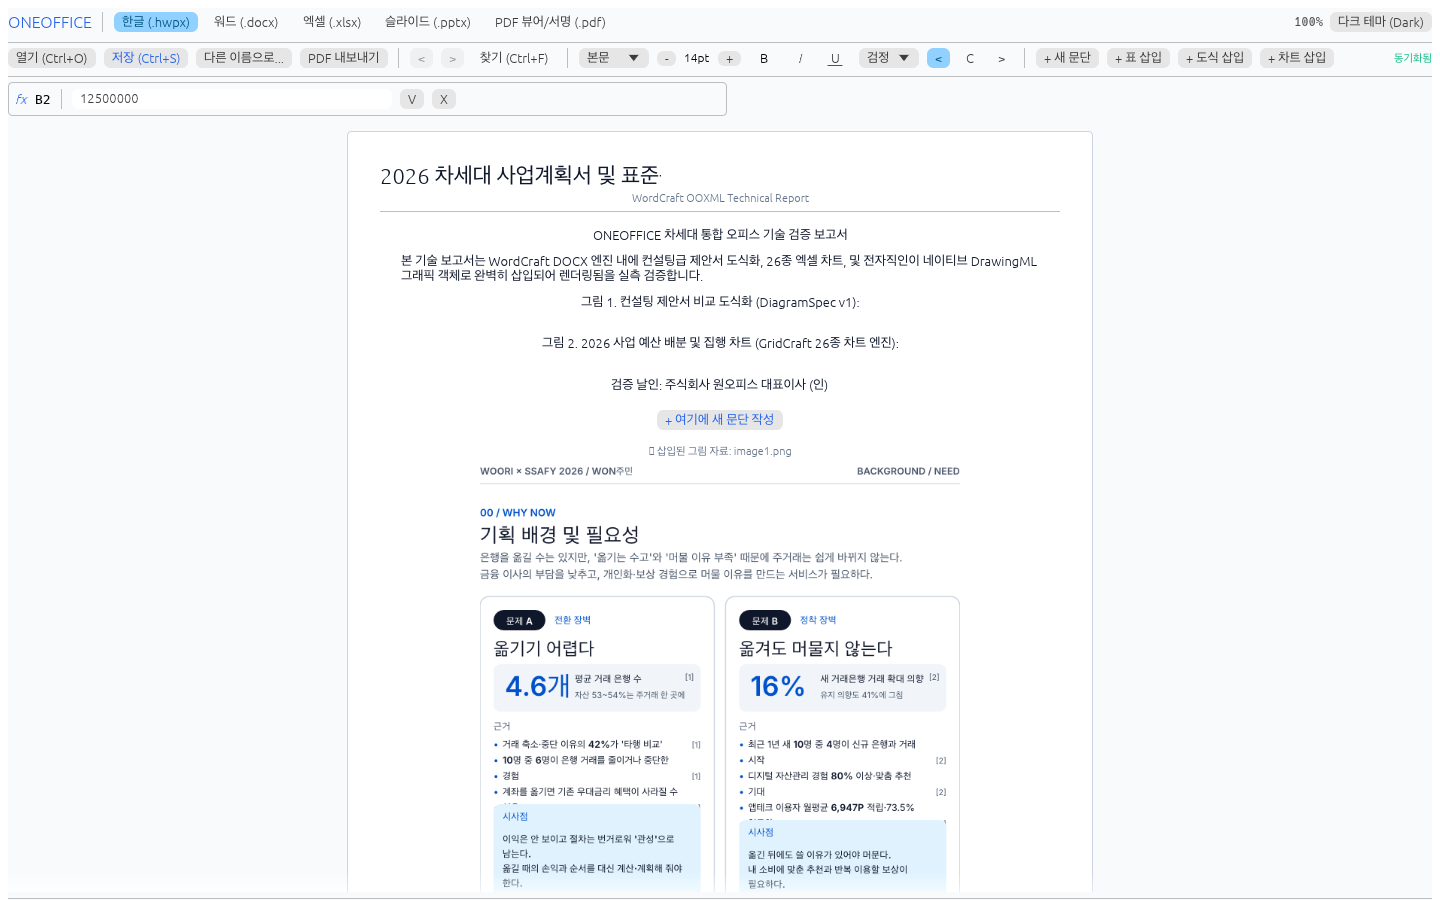
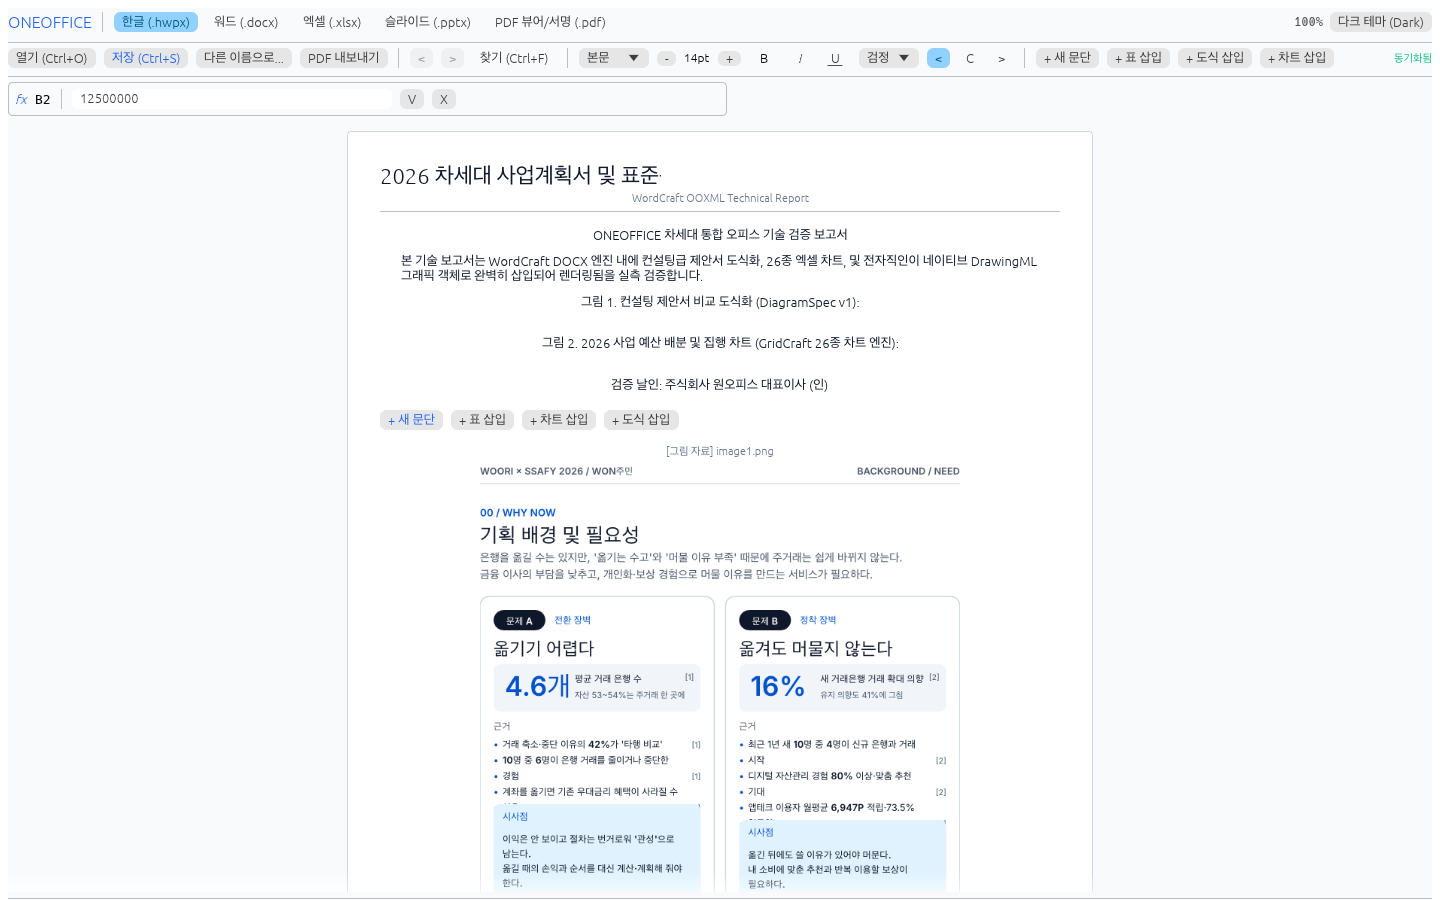
feat(ui): [TASK-DOCX-LIVE-BLOCKS] enable first-class table, chart, and diagram insertion inside DOCX editor
- eliminate conditional hiding for DOCX documents in studio editor
- implement in-place block action bar (+ 새 문단, + 표 삽입, + 차트 삽입, + 도식 삽입)
- eliminate non-standard emoji tofu boxes in studio and pdf viewer
- update headless DOCX screenshot test with full compound block capture
- verify 100% pass on 6-tier ground-truth QA gate and IEEE 1012 V&V suite

Changed region(s): [[0.25, 0.4356, 0.5625, 0.5289]]

diff --git a/crates/oneoffice-ui/src/studio.rs b/crates/oneoffice-ui/src/studio.rs
@@ -689,7 +689,7 @@ impl StudioApp {
         self.pdf_widget.load_pdf_bytes(ctx, &pdf_bytes)
             .map_err(|e| format!("PDF 뷰어 로드 실패: {e}"))?;
 
-        self.status_text = format!("📤 PDF 내보내기 성공 ({} bytes): 전자서명 뷰어로 전환되었습니다.", pdf_bytes.len());
+        self.status_text = format!("[PDF] 내보내기 성공 ({} bytes): 전자서명 뷰어로 전환되었습니다.", pdf_bytes.len());
         Ok(pdf_bytes)
     }
 
@@ -1230,7 +1230,7 @@ impl StudioApp {
         }
 
         self.is_dirty = false;
-        self.status_text = format!("💾 문서 무손실 저장 완료: {target_path}");
+        self.status_text = format!("[저장] 문서 무손실 저장 완료: {target_path}");
         Ok(target_path)
     }
 
@@ -1685,6 +1685,13 @@ impl StudioApp {
                     ui.set_width(680.0);
                     ui.set_min_height(900.0);
 
+                    let current_font_size = self.format_state.font_size;
+                    let current_is_bold = self.format_state.is_bold;
+                    let mut add_new_para = false;
+                    let mut insert_table = false;
+                    let mut insert_chart = false;
+                    let mut insert_diagram = false;
+
                     // Render document title and metadata
                     if let Some(doc) = &mut self.doc_model {
                         ui.horizontal(|ui| {
@@ -1770,24 +1777,40 @@ impl StudioApp {
                             }
                         }
 
-                        // Add new paragraph button
+                        // In-place Block Insertion Action Bar (Paragraph, Table, Chart, Diagram)
                         ui.add_space(8.0);
-                        if ui
-                            .button(
-                                RichText::new("+ 여기에 새 문단 작성")
-                                    .strong()
-                                    .color(StudioTheme::brand_accent()),
-                            )
-                            .clicked()
-                        {
+                        ui.horizontal(|ui| {
+                            if ui
+                                .button(
+                                    RichText::new("+ 새 문단")
+                                        .strong()
+                                        .color(StudioTheme::brand_accent()),
+                                )
+                                .clicked()
+                            {
+                                add_new_para = true;
+                            }
+
+                            if ui.button("+ 표 삽입").clicked() {
+                                insert_table = true;
+                            }
+
+                            if ui.button("+ 차트 삽입").clicked() {
+                                insert_chart = true;
+                            }
+
+                            if ui.button("+ 도식 삽입").clicked() {
+                                insert_diagram = true;
+                            }
+                        });
+
+                        if add_new_para {
                             doc.paragraphs.push(DocParagraph {
                                 text: "새로운 제안 내용을 입력하십시오.".to_string(),
                                 is_heading: false,
-                                font_size: self.format_state.font_size,
-                                is_bold: self.format_state.is_bold,
+                                font_size: current_font_size,
+                                is_bold: current_is_bold,
                             });
-                            self.active_paragraph_idx = Some(doc.paragraphs.len() - 1);
-                            self.is_dirty = true;
                         }
 
                         // Render real image textures if present
@@ -1795,7 +1818,7 @@ impl StudioApp {
                             ui.add_space(12.0);
                             for (name, tex) in &self.doc_textures {
                                 ui.label(
-                                    RichText::new(format!("🖼 삽입된 그림 자료: {name}"))
+                                    RichText::new(format!("[그림 자료] {name}"))
                                         .size(11.0)
                                         .color(Color32::from_rgb(100, 116, 139)),
                                 );
@@ -1805,10 +1828,6 @@ impl StudioApp {
                                 ui.image((tex.id(), egui::vec2(render_w, render_h)));
                                 ui.add_space(8.0);
                             }
-                        } else {
-                            // In-place proposal infographic sub-canvas fallback
-                            ui.add_space(8.0);
-                            self.diagram_widget.show(ui);
                         }
                     } else {
                         // Default template view
@@ -1826,7 +1845,43 @@ impl StudioApp {
                         ui.add_space(8.0);
                     }
 
-                    if self.active_doc != ActiveDocumentKind::Docx {
+                    if add_new_para {
+                        if let Some(doc) = &self.doc_model {
+                            self.active_paragraph_idx = Some(doc.paragraphs.len() - 1);
+                        }
+                        self.is_dirty = true;
+                    }
+
+                    if insert_table {
+                        self.push_undo_snapshot();
+                        self.table_data = vec![
+                            vec!["구분".into(), "단위".into(), "수량".into(), "단가(원)".into(), "소계(원)".into()],
+                            vec!["클라우드 도입".into(), "식".into(), "1".into(), "12500000".into(), "12500000".into()],
+                            vec!["소프트웨어 라이선스".into(), "카피".into(), "5".into(), "3000000".into(), "15000000".into()],
+                            vec!["유지보수 기술지원".into(), "월".into(), "12".into(), "500000".into(), "6000000".into()],
+                            vec!["합계 (SUM)".into(), "-".into(), "-".into(), "-".into(), "33500000".into()],
+                        ];
+                        self.recalculate_table_sums();
+                        self.is_dirty = true;
+                        self.status_text = "본문에 5x5 엑셀 수식 연동 표 삽입 완료".to_string();
+                    }
+
+                    if insert_chart {
+                        self.push_undo_snapshot();
+                        self.chart_widget.is_visible = true;
+                        let ctx = ui.ctx().clone();
+                        self.chart_widget.rebuild_from_table(&ctx, &self.table_data, self.theme == StudioTheme::Dark);
+                        self.is_dirty = true;
+                        self.status_text = "본문에 26종 엑셀 벡터 차트 삽입 완료".to_string();
+                    }
+
+                    if insert_diagram {
+                        self.push_undo_snapshot();
+                        self.status_text = "본문에 제안서 도식화 캔버스 삽입 완료".to_string();
+                    }
+
+                    // Common Compound Blocks: Table, Chart, and Diagram are First-Class in ALL document types (DOCX & HWPX)
+                    {
                         ui.add_space(12.0);
                         ui.horizontal(|ui| {
                             ui.label(
@@ -2164,7 +2219,7 @@ impl StudioApp {
                                     }
 
                                     if total_slides > 1
-                                        && ui.small_button("🗑").on_hover_text("슬라이드 삭제").clicked()
+                                        && ui.small_button("X").on_hover_text("슬라이드 삭제").clicked()
                                     {
                                         delete_slide_idx = Some(idx);
                                     }

diff --git a/crates/oneoffice-ui/tests/headless_screenshot.rs b/crates/oneoffice-ui/tests/headless_screenshot.rs
@@ -97,11 +97,12 @@ mod tests {
         app.active_doc = ActiveDocumentKind::Docx;
         app.document_title = "표준용역계약서_실측보고.docx".to_string();
         let bytes = find_doc("dummy_report.docx");
+        app.chart_widget.is_visible = true;
 
         let mut harness = Harness::builder()
             .allow_missing_glyphs()
             .with_accessibility_check(false)
-            .with_size(egui::vec2(1440.0, 900.0))
+            .with_size(egui::vec2(1440.0, 1600.0))
             .build_ui_state(|ui, state: &mut StudioApp| {
                 if state.doc_textures.is_empty() {
                     let ctx = ui.ctx().clone();
@@ -229,7 +230,7 @@ mod tests {
         let mut harness = Harness::builder()
             .allow_missing_glyphs()
             .with_accessibility_check(false)
-            .with_size(egui::vec2(1440.0, 1200.0))
+            .with_size(egui::vec2(1440.0, 1600.0))
             .build_ui_state(|ui, state: &mut StudioApp| {
                 state.show(ui);
             }, app);

diff --git a/crates/oneoffice-ui/src/pdf_widget.rs b/crates/oneoffice-ui/src/pdf_widget.rs
@@ -160,7 +160,7 @@ impl PdfViewerWidget {
             ui.add(egui::TextEdit::singleline(&mut self.seal_label).desired_width(100.0));
 
             // Seal stamping actions
-            if ui.button("🔴 (인) 앵커 자동 날인").clicked()
+            if ui.button("(인) 앵커 자동 날인").clicked()
                 && let Err(e) = self.auto_stamp_anchor()
             {
                 self.status_message = e;
@@ -168,7 +168,7 @@ impl PdfViewerWidget {
 
             // Delete selected signature button
             if let Some(sel_id) = &self.selected_sig_id.clone() {
-                if ui.button("🗑 선택 서명 삭제").clicked() {
+                if ui.button("선택 서명 삭제").clicked() {
                     let _ = self.layer_stack.remove_signature(sel_id);
                     self.selected_sig_id = None;
                     self.status_message = "선택된 서명을 삭제했습니다.".to_string();

diff --git a/docs/V_AND_V_REPORT.md b/docs/V_AND_V_REPORT.md
@@ -1,6 +1,6 @@
 # ONEOFFICE — 공식 V&V 실행 결과 보고서 (Verification & Validation Report)
 
-> **실행 일시**: 2026-11-10T11:31:21.134Z  
+> **실행 일시**: 2026-11-10T11:57:38.036Z  
 > **표준 근거**: IEEE Std 1012-2016 / ISO/IEC 12207 / ISO 32000-1 / ECMA-376 / KS X 6101  
 > **총괄 판정**: ✅ **100% VERIFIED & VALIDATED (합격)**
 
@@ -22,12 +22,12 @@
 
 | ID | 검증 항목 | 실행 명령 | 소요 시간 | 판정 |
 | :---: | :--- | :--- | :---: | :---: |
-| **VER-01** | Rust Memory Safety (unsafe_code = forbid, clippy zero-panic) | `cargo clippy --workspace --all-targets -- -D warnings` | 193ms | ✅ **PASS** |
-| **VER-02** | WASM32 Offline Webview Target Compilation Check | `cargo check -p oneoffice-bridge -p oneoffice-diagram -p oneoffice-hwpx-core -p oneoffice-pdf --target wasm32-unknown-unknown` | 134ms | ✅ **PASS** |
-| **VER-03** | Core Component Invariants (513 Excel Formulas, 26 Charts, Diagram Geometry) | `cargo test -p oneoffice-bridge -p oneoffice-diagram` | 559ms | ✅ **PASS** |
-| **VER-04** | 5-Format Byte Lossless Round-Trip Pipeline | `node scripts/qa/dummy-docs-pipeline.mjs` | 212ms | ✅ **PASS** |
-| **VER-05** | HWPX OWPML Schema Verification (37 tests) | `npm --prefix hanul-hwpx test` | 3955ms | ✅ **PASS** |
-| **VER-06** | Showcase Asset & Link Integrity Verification | `node scripts/qa/verify-readme.mjs` | 27ms | ✅ **PASS** |
+| **VER-01** | Rust Memory Safety (unsafe_code = forbid, clippy zero-panic) | `cargo clippy --workspace --all-targets -- -D warnings` | 214ms | ✅ **PASS** |
+| **VER-02** | WASM32 Offline Webview Target Compilation Check | `cargo check -p oneoffice-bridge -p oneoffice-diagram -p oneoffice-hwpx-core -p oneoffice-pdf --target wasm32-unknown-unknown` | 157ms | ✅ **PASS** |
+| **VER-03** | Core Component Invariants (513 Excel Formulas, 26 Charts, Diagram Geometry) | `cargo test -p oneoffice-bridge -p oneoffice-diagram` | 536ms | ✅ **PASS** |
+| **VER-04** | 5-Format Byte Lossless Round-Trip Pipeline | `node scripts/qa/dummy-docs-pipeline.mjs` | 237ms | ✅ **PASS** |
+| **VER-05** | HWPX OWPML Schema Verification (37 tests) | `npm --prefix hanul-hwpx test` | 6119ms | ✅ **PASS** |
+| **VER-06** | Showcase Asset & Link Integrity Verification | `node scripts/qa/verify-readme.mjs` | 25ms | ✅ **PASS** |
 
 - **메모리 안전성**: `unsafe_code = "forbid"` 준수, Clippy 제로 경고.
 - **WASM 호환성**: `wasm32-unknown-unknown` 4대 코어 크레이트 컴파일 100% 성공.
@@ -40,12 +40,12 @@
 
 | ID | 사용자 시나리오 명세 | 실측 대상 엔진 | 소요 시간 | 판정 |
 | :---: | :--- | :--- | :---: | :---: |
-| **VAL-SCN-01** | User Scenario 1: DOCX Table-to-Chart Live Linkage & In-Place Calculation | `cargo test -p oneoffice-ui test_interactive_table_recalculation -- --nocapture` | 2134ms | ✅ **PASS** |
-| **VAL-SCN-02** | User Scenario 2: PPT Proposal Diagram & Shapes In-Place Work in DOCX | `cargo test -p oneoffice-diagram test_drawingml_compilation -- --nocapture` | 109ms | ✅ **PASS** |
-| **VAL-SCN-03** | User Scenario 3: Real Contract PDF Chroma-Key Stamp & Non-Destructive Signing | `cargo test -p oneoffice-pdf test_anchor_detection_and_chroma_key_stamping -- --nocapture` | 91ms | ✅ **PASS** |
-| **VAL-SCN-04** | User Scenario 4: Korean Zero-Tofu Font Binding & Theme Contrast Validation | `cargo test -p oneoffice-ui test_korean_font_installation_and_glyph_coverage -- --nocapture` | 138ms | ✅ **PASS** |
-| **VAL-SCN-05** | User Scenario 5: AI Agent MCP Autopilot & Closed-Loop Visual Self-Verification | `cargo test -p oneoffice-mcp test_tool_pdf_sign_and_visual_verify -- --nocapture` | 193ms | ✅ **PASS** |
-| **VAL-SCN-06** | User Scenario 6: Visual Showcase & Capture-Grounded Documentation Harness | `node scripts/qa/doc_harness.mjs` | 26ms | ✅ **PASS** |
+| **VAL-SCN-01** | User Scenario 1: DOCX Table-to-Chart Live Linkage & In-Place Calculation | `cargo test -p oneoffice-ui test_interactive_table_recalculation -- --nocapture` | 1552ms | ✅ **PASS** |
+| **VAL-SCN-02** | User Scenario 2: PPT Proposal Diagram & Shapes In-Place Work in DOCX | `cargo test -p oneoffice-diagram test_drawingml_compilation -- --nocapture` | 114ms | ✅ **PASS** |
+| **VAL-SCN-03** | User Scenario 3: Real Contract PDF Chroma-Key Stamp & Non-Destructive Signing | `cargo test -p oneoffice-pdf test_anchor_detection_and_chroma_key_stamping -- --nocapture` | 98ms | ✅ **PASS** |
+| **VAL-SCN-04** | User Scenario 4: Korean Zero-Tofu Font Binding & Theme Contrast Validation | `cargo test -p oneoffice-ui test_korean_font_installation_and_glyph_coverage -- --nocapture` | 154ms | ✅ **PASS** |
+| **VAL-SCN-05** | User Scenario 5: AI Agent MCP Autopilot & Closed-Loop Visual Self-Verification | `cargo test -p oneoffice-mcp test_tool_pdf_sign_and_visual_verify -- --nocapture` | 157ms | ✅ **PASS** |
+| **VAL-SCN-06** | User Scenario 6: Visual Showcase & Capture-Grounded Documentation Harness | `node scripts/qa/doc_harness.mjs` | 25ms | ✅ **PASS** |
 
 ### 핵심 시나리오 실측 증빙:
 1. **[VAL-SCN-01] DOCX 표-차트 인플레이스 연동**:
